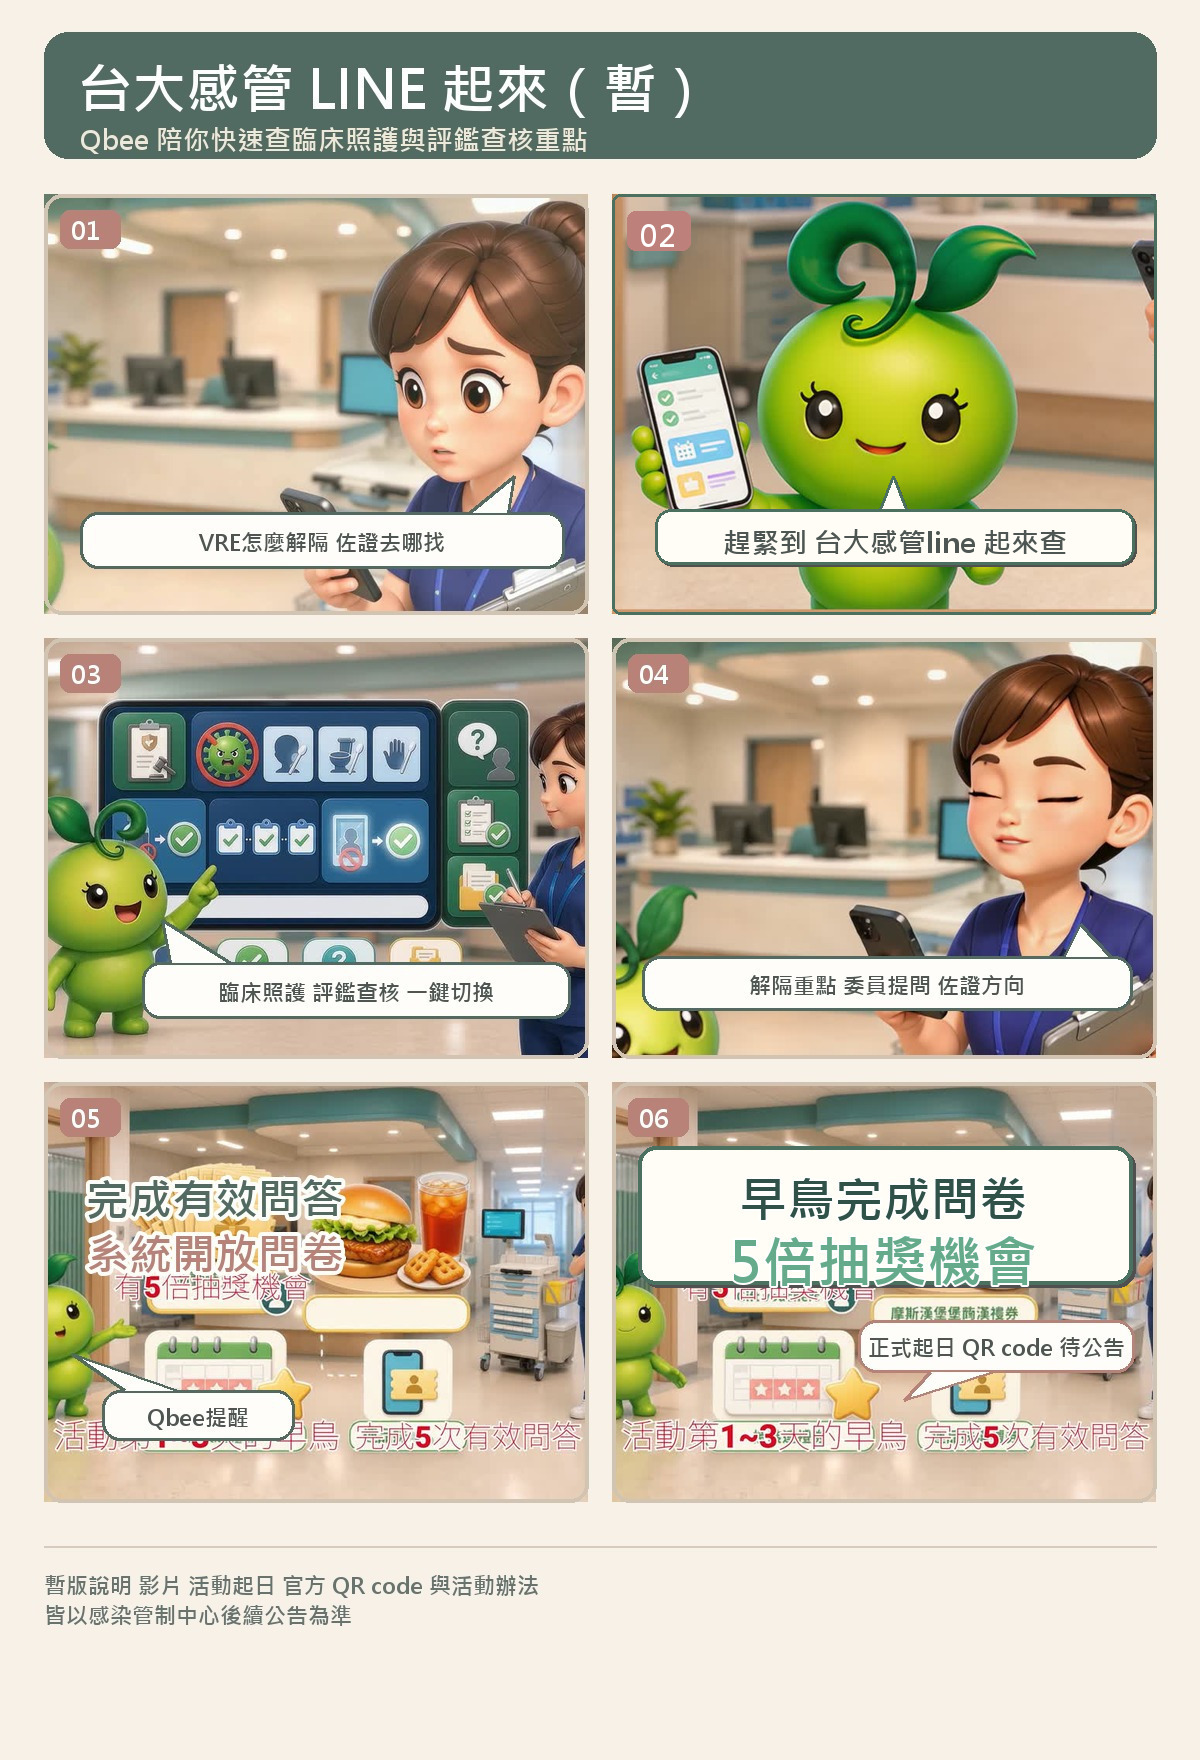
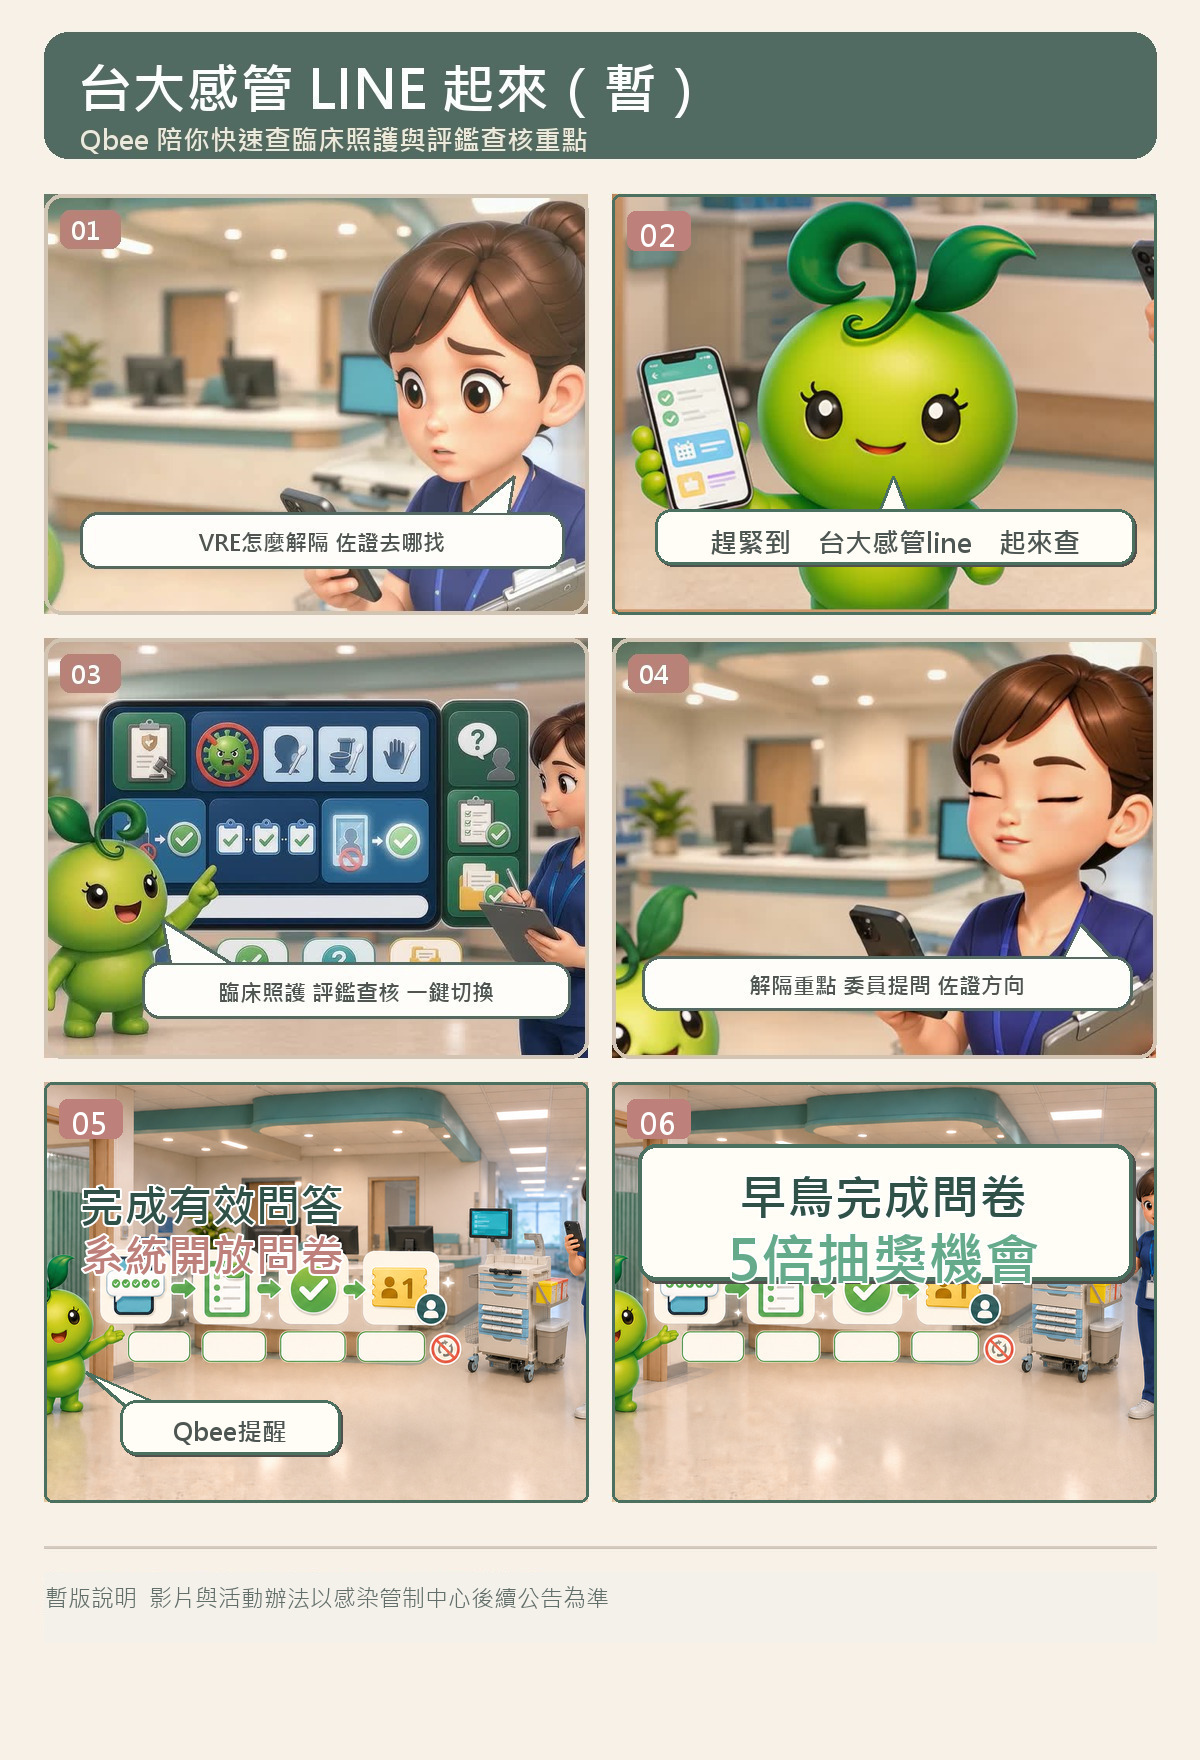
Refine comic wording and temporary notes

diff --git a/output/epaper/不可不知_台大感管LINE起來_暫.html b/output/epaper/不可不知_台大感管LINE起來_暫.html
@@ -13,7 +13,7 @@
         <tr>
           <td style="padding:12px 26px;">
             <a href="https://heigilin.github.io/ntuh-ic-line-bot/#promo-video" target="_blank" style="display:block;text-decoration:none;">
-              <img src="https://heigilin.github.io/ntuh-ic-line-bot/assets/qbee_promo_comic_20260903.jpg" alt="台大感管 LINE 起來暫版漫畫宣導圖" width="708" style="display:block;width:100%;max-width:708px;height:auto;border:0;">
+              <img src="https://heigilin.github.io/ntuh-ic-line-bot/assets/qbee_promo_comic_20260903b.jpg" alt="台大感管 LINE 起來暫版漫畫宣導圖" width="708" style="display:block;width:100%;max-width:708px;height:auto;border:0;">
             </a>
           </td>
         </tr>

diff --git a/app.py b/app.py
@@ -639,6 +639,7 @@ class Handler(BaseHTTPRequestHandler):
             "/assets/台大感管line起來_暫_web.mp4": BASE_DIR / "assets/台大感管line起來_暫_web.mp4",
             "/assets/qbee_promo_comic_temp.jpg": BASE_DIR / "assets/qbee_promo_comic_temp.jpg",
             "/assets/qbee_promo_comic_20260903.jpg": BASE_DIR / "assets/qbee_promo_comic_20260903.jpg",
+            "/assets/qbee_promo_comic_20260903b.jpg": BASE_DIR / "assets/qbee_promo_comic_20260903b.jpg",
             "/assets/event-rules.pdf": BASE_DIR / "台大感管 LINE 官方帳號體驗問卷抽獎推廣活動辦法_0901活動版.pdf",
         }
         if parsed.path in public_files:

diff --git a/output/epaper/不可不知_台大感管LINE起來_暫_文案.md b/output/epaper/不可不知_台大感管LINE起來_暫_文案.md
@@ -15,4 +15,4 @@
 ## 建議連結
 
 - 響應式網站與暫版影片：<https://heigilin.github.io/ntuh-ic-line-bot/#promo-video>
-- 漫畫宣導圖：<https://heigilin.github.io/ntuh-ic-line-bot/assets/qbee_promo_comic_20260903.jpg>
+- 漫畫宣導圖：<https://heigilin.github.io/ntuh-ic-line-bot/assets/qbee_promo_comic_20260903b.jpg>
